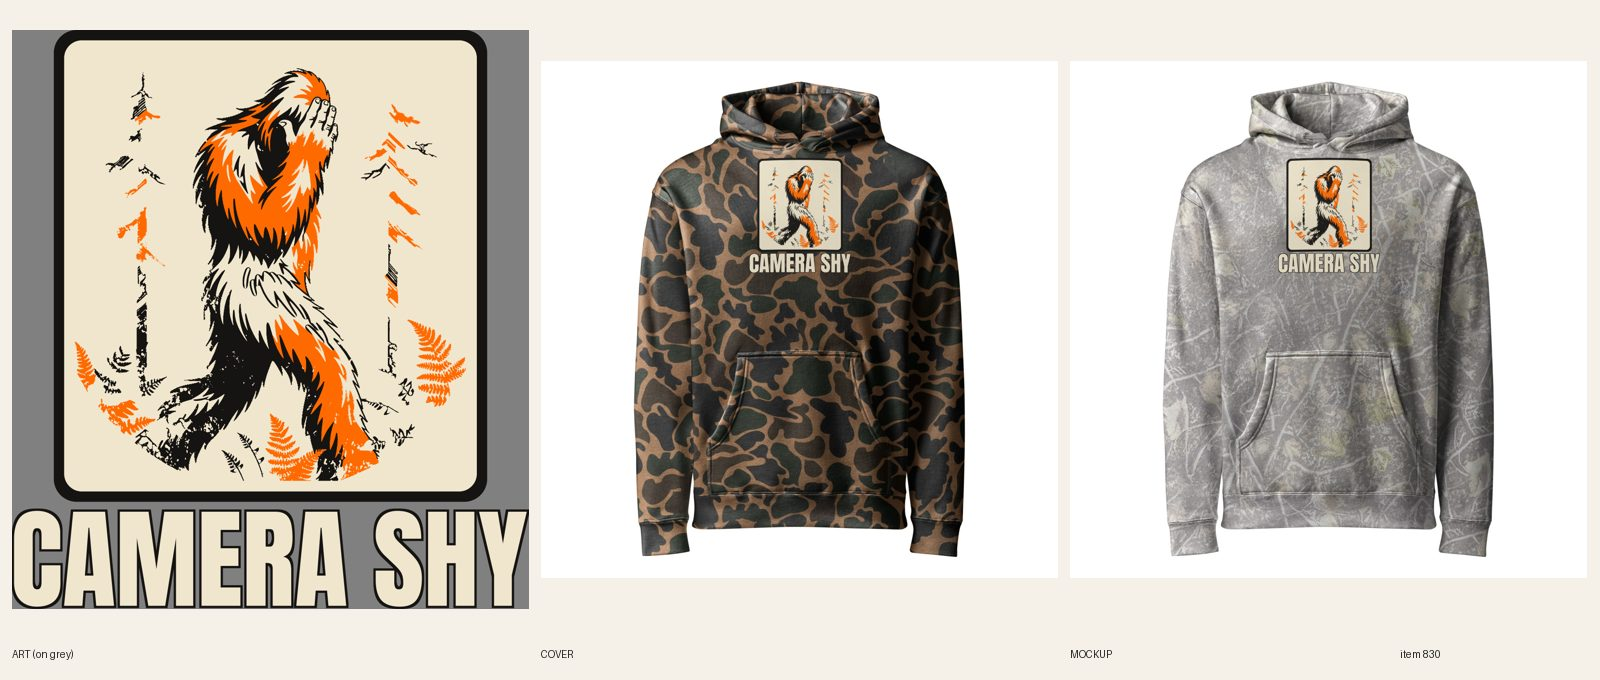
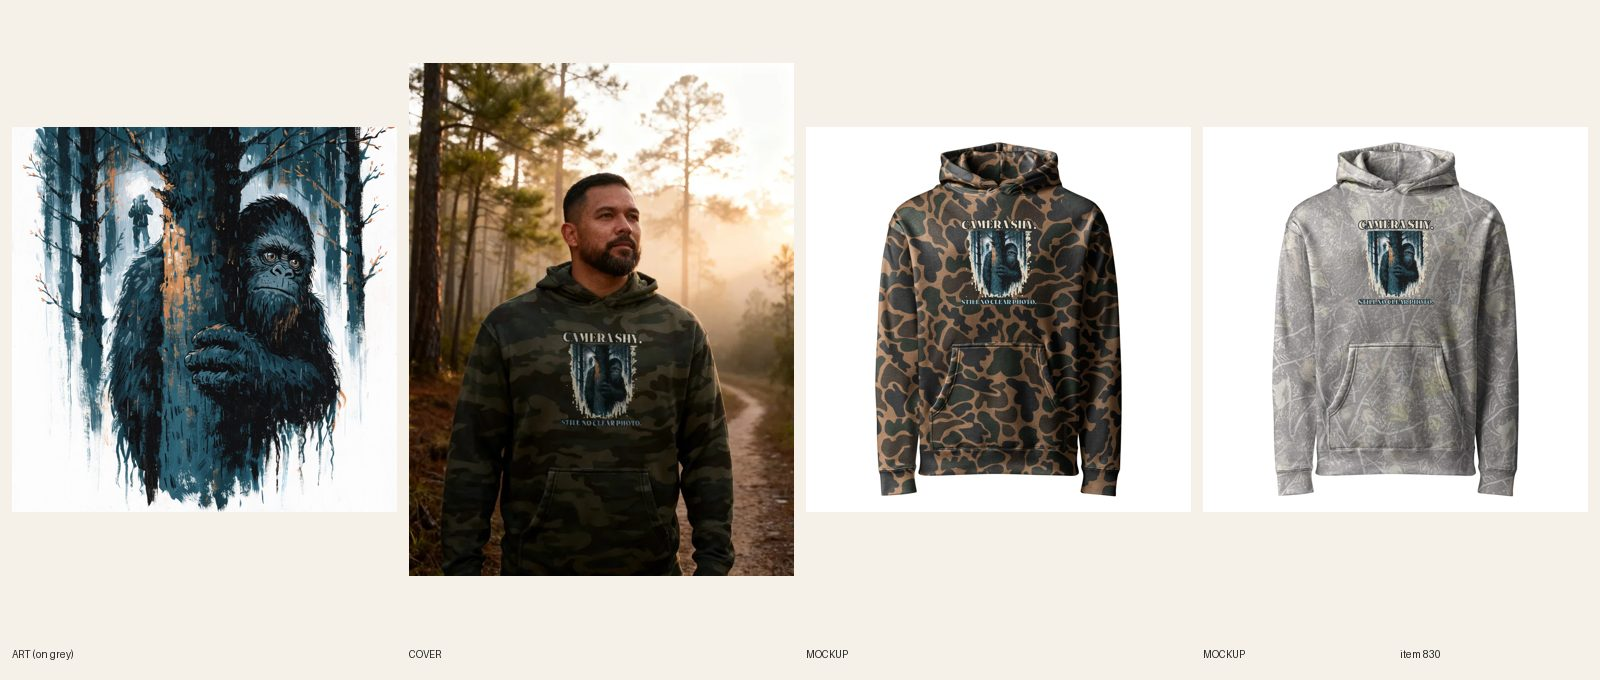
[B] wip 830 camo redo (S1 art, A+, photos)

diff --git a/src/data/covers.ts b/src/data/covers.ts
@@ -665,6 +665,7 @@ export const covers: Record<string, { src: string; alt: string }> = {
   'unisex-essentials-burgundy-zip-hoodie': { src: '/covers/unisex-essentials-burgundy-zip-hoodie.webp', alt: 'Black man in his early 20s with a short fade walking a brick college-town street under fall maples with his hands in the front pockets, wearing a burgundy zip hoodie with a small orange Graphic Tees script stitched on the left chest' },
   'unisex-essentials-charcoal-zip-hoodie': { src: '/covers/unisex-essentials-charcoal-zip-hoodie.webp', alt: 'Woman in her early 30s with a long low ponytail walking into a rainy city park with a closed umbrella at her side, wearing a charcoal heather zip hoodie with a small orange Graphic Tees script stitched on the left chest' },
   'mens-hunting-opening-day-zip-hoodie': { src: '/covers/mens-hunting-opening-day-zip-hoodie.webp', alt: 'Man in his mid 50s with long grey hair under a beanie seen from behind walking across a frosty field at dawn with a thermos, wearing an ash zip hoodie printed on the back with Took the Day Off. The Deer Did Too. and a buck in a camp chair' },
+  'mens-outdoors-sasquatch-camera-shy-camo-hoodie': { src: '/covers/mens-outdoors-sasquatch-camera-shy-camo-hoodie.webp', alt: 'Man in a Forest Camo Camera Shy Sasquatch hoodie on a misty pine trail at first light, painted Bigfoot print centered on the chest' },
 };
 
 // Pasted-print covers retired by R6.10 (Sam 2026-10-18): these fall back to the clean Printful mockup until a

diff --git a/docs/model-registry.md b/docs/model-registry.md
@@ -938,3 +938,4 @@ Rows 11–43 were re-pointed on 2026-10-08 when the briefs were rewritten from d
 | 1143 | Black woman, early 40s, shoulder-length locs tied back, medium build | CLAIMED 2026-10-21 — #985 hoodie cover (brief) |
 | 1144 | Chinese-American woman, late 20s, long black hair tied back, slim build | CLAIMED 2026-10-21 — #986 hoodie cover (brief) |
 | 1145 | Brazilian woman, early 30s, curly dark hair tied back, medium build | CLAIMED 2026-10-21 — #987 hoodie cover (brief) |
+| 1146 | Lumbee man, mid 30s, short dark hair, trimmed beard, broad build | USED 2026-10-23 — #830 camo redo cover + second photo |
